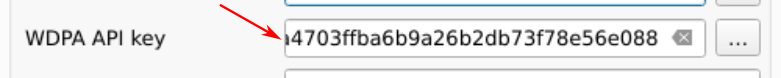
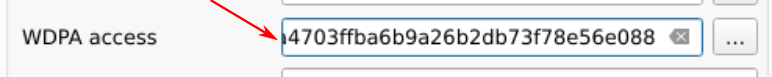
Updating documentation

diff --git a/help/docsrc/plugin_api.rst b/help/docsrc/plugin_api.rst
@@ -27,9 +27,9 @@ This box is for collecting the information needed to download the data and compu
 
 - ``Working directory``: Path to the working directory where all the data and model outputs will be stored.
 
-- ``Area Of Interest``: Country ISO 3166-1 alpha-3 code (eg. MTQ) or path to GPKG vector file in lat/lon delimiting the area of interest (jurisdiction) and the sub-jurisdictions. The GPKG vector file must include two layers, the first one must be named “aoi” for the jurisdiction and the second one must be named “subj” for subjurisdictions. This GPKG vector file can be manually obtained using Qgis tools and data from the Global Administrative Areas (`GADM <https://gadm.org/download_country.html>`_) website. An example is given in the following article on using `subnational jurisdictions <articles/subnational_jurisd.html>`_.
+- ``Area Of Interest``: Country ISO 3166-1 alpha-3 code (e.g. MTQ) or path to GPKG vector file in lat/lon delimiting the area of interest (jurisdiction) and the sub-jurisdictions. The GPKG vector file must include two layers, the first one must be named “aoi” for the jurisdiction and the second one must be named “subj” for subjurisdictions. This GPKG vector file can be manually obtained using Qgis tools and data from the Global Administrative Areas (`GADM <https://gadm.org/download_country.html>`_) website. An example is given in the following article on using `subnational jurisdictions <articles/subnational_jurisd.html>`_.
 
-- ``Years``: Years delimiting the two periods (calibration and validation periods) for forest cover change observations. Three years must be provided. Years can be in the interval 2001--2024 for GFC (GFC does not provide loss for the year 2000) and 2000--2023 for TMF.
+- ``Years``: Years delimiting the two periods (calibration and validation periods) for forest cover change observations. Three years must be provided. Years can be in the interval 2001--2024 for GFC (GFC does not provide tree cover loss for the year 2000) and 2000--2023 for TMF.
 
 - ``Forest data source``: Source of the forest data. Could be either “tmf” or “gfc”.
 
@@ -37,30 +37,107 @@ This box is for collecting the information needed to download the data and compu
 
 - ``Tile size (dd)``: Tile size (in decimal degrees) used to download forest cover change. A value of 1 degree is recommended.
 
-- ``Country/state ISO code``: Country or state ISO code used to download GADM, OSM, SRTM, and WDPA data. The iso code should correspond to the country to which the aoi provided in ``Area Of Interest`` belongs. For Brazilian states, use the code of the state in the form “BRA-XX” (e.g. “BRA-AM” for the Amazonas state). A list of codes that can be used with the ``deforisk`` plugin can be found in this `.csv <https://github.com/ghislainv/forestatrisk/blob/master/forestatrisk/csv/ctry_run.csv>`_ file (see column iso3).
+- ``Country/state ISO code``: Country or state ISO code used to download GADM, OSM, SRTM, and WDPA data. The iso code should correspond to the country to which the aoi provided in ``Area Of Interest`` belongs. For Brazilian states, use the code of the state in the form “BRA-XX” (e.g. “BRA-AM” for the Amazonas state). A list of codes that can be used with the ``deforisk`` plugin can be found in this `.tsv <https://github.com/ghislainv/forestatrisk/blob/master/forestatrisk/csv/ctry_run.tsv>`_ file (see column iso3).
 
 - ``Earth Engine access``: Name of a Google Cloud project registered to use Earth Engine (and for which you are identified as a user) or a path to a JSON private key file authorizing you to access Earth Engine through a service account.
 
-- ``WDPA access``: Personal API Token (a series of letters and numbers such as ``ca4703ffba6b9a26b2db73f78e56e088``) or a path to a text file specifying the value of the “WDPA\_KEY” environmental variable (eg. a simple text file including on one line ``WDPA_KEY="3e404871700e77c453c4e189d848f739"`` for example).
+- ``WDPA access``: Personal API Token (a series of letters and numbers such as ``ca4703ffba6b9a26b2db73f78e56e088``) or a path to a text file specifying the value of the “WDPA\_KEY” environmental variable (e.g. a simple text file including on one line ``WDPA_KEY="3e404871700e77c453c4e189d848f739"`` for example).
 
 - ``Projection EPSG code``: EPSG code of the coordinate reference system used for projecting maps.
 
-Pushing the ``Run`` button in this box will download the data and compute the variables in the background. When the operation is finished, a forest cover change map appears in the list of QGIS layers. New folders are created in the working directory:
+Pushing the ``Run`` button in this box will download the data and compute the variables in the background. When the operation is finished, a forest cover change map appears in the list of Qgis layers and a plot of the forest cover change ``fcc123.png`` is created in folder ``outputs/variables``. New folders are created in the working directory:
 
-- ``working_directory/iso_code``: Unique folder created for the study area.
+Six data folders are created:
 
-- ``working_directory/iso_code/data_raw``: Downloaded raw data for the study area.
+- ``data_raw``: raw data with intermediary files.
 
-- ``working_directory/iso_code/data``: Processed data that will be used for modelling.
+- ``data``: processed data used for models and plots.
 
-- ``working_directory/iso_code/outputs``: Outputs (figures and tables).
+The following four folders only include symlinks to avoid duplicating data:
 
-- ``working_directory/iso_code/qgis_layer_style``: Layer styles for QGIS.
+- ``data_calibration``: data used for model calibration on the calibration period (t1--t2).
+
+- ``data_validation``: data used to predict the deforestation risk at t2 and validate models on the validation period (t2--t3). This folder used for prediction does not include a ``fcc.tif`` file but only raster files of explanatory variables.
+
+- ``data_historical``: data used for model calibration on the historical period (t1--t3).
+
+- ``data_forecast``: data used to predict the deforestation risk at t3 and forecast deforestation beyond t3. This folder does not include any ``fcc.tif`` file either.
+
+Three other folders are created:
+
+- ``outputs``: Outputs (figures and tables).
+
+- ``outputs/variables``: Output for variables.
+
+- ``qgis_layer_style``: Layer styles for Qgis.
 
 Benchmark
 ---------
 
 .. image:: _static/interface_benchmark.png
+
+Fit model to data
+~~~~~~~~~~~~~~~~~
+
+This tab is for collecting the information needed to map the deforestation risk using the benchmark model from the `Verra JNR Unplanned Deforestation Allocation (UDef-A) tool <https://verra.org/methodologies/vt0007-unplanned-deforestation-allocation-udef-a-v1-0/>`_. In summary, the benchmark model assumes that deforestation is negligible beyond a given distance to forest edge, that the deforestation risk decreases with the distance to forest edge and that for a given distance to forest edge the risk varies between subjurisdictions.
+
+- ``Deforestation threshold (%)``: Accumulated deforestation threshold used to identify the distance to forest edge threshold. Default to 99.5% as suggested in the UDef-A methodology.
+
+- ``Max. distance to forest edge (m)``: Maximal distance to forest edge used to compute the accumulated deforestation as a function of the distance to forest edge. Default to 2500 m as most of the deforestation should occur below this distance. Increase this number if the 99.5% threshold for the accumulated deforestation is not reached.
+
+- ``calib. period``: If checked, the model is fitted for the calibration period (t1--t2).
+
+- ``hist. period``: If checked, the model is fitted for the historical period (t1--t3).
+
+Pushing the ``Run`` button in this box will estimate the distance to forest edge beyond which the deforestation risk is assumed negligible. This distance threshold is used to define a first class of deforestation risk. Then, 29 classes of deforestation risk are estimated from the distance to forest edge using a geometric series to identified bins. Classes with higher deforestation risks have narrower ranges of distance to forest edge. Finally, a deforestation rate is estimated for each of the 30 classes within each subjurisdiction based on the observed deforestation for the time period considered.
+
+The following folders are created: ``outputs/rmj_benchmark/calibration`` and ``outputs/rmj_benchmark/historical``. The following files are added to these folders:
+
+- ``tab_dist.csv``: Table with the cumulated deforestation as a function of the distance to forest edge.
+
+- ``perc_dist.png``: Plot of the cumulated deforestation as a function of the distance to forest edge showing the distance threshold.
+
+- ``dist_edge_threshold.csv``: Table with distance threshold and corresponding cumulated deforestation (which must be :math:`\geq` 99.5%).
+
+- ``dist_bins.csv``: Table with the bins used to convert distance to forest edge into 29 classes of deforestation risk using a geometric series.
+
+- ``subj.tif``: Raster of subjurisdictions with values going from 1 to potentially 999.
+
+- ``prob_bm_t1.tif``: Raster with classes of deforestation risk going from 1001 to potentially 30999.
+
+- ``prob_bm_t1.png``: Plot of the deforestation risk map.
+
+- ``defrate_cat_bm_<period>.csv``: Table with deforestation rates on the period for each class of deforestation risk (see details `below <plugin_api.html#defrate-table>`_).
+
+.. _defrate-table:
+
+Table ``defrate_cat_<model>_<period>.csv``
+^^^^^^^^^^^^^^^^^^^^^^^^^^^^^^^^^^^^^^^^^^
+
+Table ``defrate_cat_<model>_<period>.csv`` includes the following columns:
+
+- ``cat``: The class (or category) of deforestation risk (denoted :math:`i_{}`).
+
+- ``nfor``: The number of forest pixels at the beginning of the period (denoted :math:`n_{i}`).
+
+- ``ndefor``: The number of deforested pixels during the period considered (denoted :math:`d_{i}`).
+
+- ``time_interval``: Time interval for the period (denoted :math:`T`, in years). E.g. 10 yr for the period 2000--2010.
+
+- ``pixel_area``: Pixel area (denoted :math:`A`, in ha). E.g. 0.9 ha for 30 × 30 m pixels.
+
+- ``rate_obs``: Observed annual deforestation rate per class computed as :math:`\theta_{o,i} = 1 - (1 - d_{i} / n_{i})^{(1 / T)}`.
+
+- ``rate_mod``: Relative spatial deforestation probability from model computed as :math:`\theta_{m,i}=d_{i}/n_{i}`.
+
+- ``rate_abs``: Absolute deforestation probability with quantity adjustment (so that total predicted deforestation equals the observed deforestation on the period), computed from an adjustment factor :math:`\rho` as :math:`\theta_{a,i} = \rho \theta_{m,i}` with :math:`\rho = \sum_{i} d_{i} / \sum_i n_{i} \theta_{m,i}`. For the benchmark model for the calibration and historical period, :math:`\rho=1` and :math:`\theta_{a,i}=\theta_{m,i}`.
+
+- ``defor_dens``: Deforestation density (in ha/pixel/yr) computed as :math:`D_{i} = \theta_{a, i} \times A / T`. The deforestation density is used to predict the amount of deforestation for each pixel belonging to a given class of deforestation risk.
+
+Predict the deforestation risk
+~~~~~~~~~~~~~~~~~~~~~~~~~~~~~~
+
+To be done...
 
 FAR models
 ----------
@@ -78,20 +155,22 @@ This box is for collecting the information needed to sample the deforestation ob
 
 - ``Random seed``: Random seed used to make the random sample reproducible.
 
-- ``Spatial cell size (km)``: Size of the spatial cells used to estimate spatial random effects. These spatial random effects account for the residual regional variability in the deforestation risk which is not taken into account by the spatial explanatory variables (e.g. distance to forest edge) included in the model. Use a value so that you have (roughly) between 500 and 1000 spatial cells covering your area of interest.
+- ``Spatial cell size (km)``: Size of the spatial cells used to estimate spatial random effects. These spatial random effects account for the residual regional variability in the deforestation risk which is not taken into account by the spatial explanatory variables (e.g. distance to forest edge) included in the model. Because one parameter is estimated for each cell, use a value so that you have (roughly) between 500 and 1000 spatial cells covering your area of interest.
 
 - ``calib. period``: If checked, the observations are sampled for the calibration period (t1--t2).
 
 - ``hist. period``: If checked, the observations are sampled for the historical period (t1--t3).
 
-Pushing the ``Run`` button in this box will sample the observations. Note that you cannot sample the observations before downloading and computing the variables (see previous step). When the operation is finished, the sampled observations appear in the list of Qgis layers. You can navigate on the map to confirm that about half the observations have been sampled in the deforested area and half in the non-deforested area. Files ``sample.txt``, ``sample_size.csv``, and ``correlation.pdf`` are added to the ``outputs`` folder. 
+Pushing the ``Run`` button in this box will sample the observations. Note that you cannot sample the observations before downloading and computing the variables (see previous step). When the operation is finished, the sampled observations appear in the list of Qgis layers. You can navigate the map to confirm that about half the observations have been sampled in the deforested area and half in the non-deforested area.
+
+The folder ``outputs/far_models`` is created with ``calibration`` and ``historical`` subfolders if ``calib. period`` and ``hist. period`` have been checked respectively. Files ``sample.txt``, ``sample_size.csv``, ``csize_icar.txt``, and ``correlation.pdf`` are added to the output folders for each period. 
 
 Fit models to data
 ~~~~~~~~~~~~~~~~~~
 
 This tab is for collecting the information needed to spatially model deforestation using three statistical models available in the ``forestatrisk`` (FAR) Python package: iCAR, GLM, and Random Forest models.
 
-- ``List of variables``: List of explanatory variables used for statistical modelling. Variable names must correspond to file names (without “.tif” extension) in folder ``working_directory/iso_code/data``. Variable names must be separated by a comma.
+- ``List of variables``: List of explanatory variables used for statistical modelling. Variable names must correspond to file names (without “.tif” extension) in folder ``data_calibration`` or ``data_historical``. Variable names must be separated by a comma. For categorical variables (such as protected areas) use the variable name with notation ``C()``, such as ``C(pa)``.
 
 - ``Starting values for betas``: If -99 (recommended), starting values for betas correspond to estimates of a simple GLM with the same variables.
 
@@ -99,16 +178,98 @@ This tab is for collecting the information needed to spatially model deforestati
 
 - ``MCMC``: Length of the MCMC for the final model.
 
-- ``Variable selection``: If checked (recommended), a variable selection is performed before fitting the final model.
+- ``Variable selection``: If checked (recommended), a variable selection (backward selection) is performed before fitting the final model.
 
-Pushing the ``Run`` button in this tab will fit the statistical model to the deforestation observations. Note that you cannot fit the model if you have not sampled the observations (see previous step). Files ``summary_icar.txt``, ``mod_icar.pickle``, and ``mcmc.pdf`` are added to the ``outputs`` folder.
+- ``calib. period``: If checked, models are fitted for the calibration period (t1--t2).
+
+- ``hist. period``: If checked, models are fitted for the historical period (t1--t3).
+
+Pushing the ``Run`` button in this box will fit the statistical model to the deforestation observations. Note that you cannot fit the model if you have not sampled the observations (see previous step).
+
+The following folders are created: ``outputs/far_models/calibration`` and ``outputs/far_models/historical``. The following files are added to the ``outputs/far_models/calibration`` and ``outputs/far_models/historical`` folders:
+
+- ``summary_icar.txt``: Summary of the iCAR model with mean, standard-deviation, and credible intervals for model parameters.
+
+- ``mcmc.pdf``: Trace and posterior distribution for the icar model parameters. Used to check MCMC convergence.
+
+- ``mod_icar.pickle``: A compressed file with iCAR model characteristics. Used for projections.
+
+- ``mod_null.pickle``: A compressed file with null model characteristics. Only used as an archive.
+
+- ``mod_glm.pickle``: A compressed file with GLM model characteristics. Used for projections.
+
+- ``mod_rf.joblib``: A compressed file with Random Forest model characteristics. Used for projections.
+
+- ``model_deviances.csv``. A text file comparing the percent deviance explained between models. This percentage is an indication of the goodness-of-fit of the model.
+
+Predict the deforestation risk
+~~~~~~~~~~~~~~~~~~~~~~~~~~~~~~
+
+This step is for predicting the deforestation risk and deriving risk maps using the models fitted on the calibration or historical period.
+
+- ``iCAR model``: If checked, computes predictions with the iCAR model.
+
+- ``GLM``: If checked, computes predictions with GLM.
+
+- ``RF model``: If checked, computes predictions with the Random Forest model.
+
+- ``t1 calibration``: If checked, computes predictions at t1 using models fitted for the calibration period.
+
+- ``t2 validation``: If checked, computes predictions at t2 for validation (using models fitted for the calibration period).
+
+- ``t1 historical``: If checked, computes predictions at t1 using models fitted for the historical period.
+
+- ``t3 forecast``: If checked, computes predictions at t3 for forecasting (using models fitted for the historical period).
+
+Pushing the ``Run`` button in this box will use the statistical models for predictions. Note that you cannot make predictions if you have not fitted the models (see previous step). When the operation is finished, rasters representing the classes of deforestation risk appear in the list of Qgis layers. You can navigate the different maps to see how the risk of deforestation is changing in space for the different dates. For example, you can have a look at the effect of the distance to forest edge, of the distance to roads, or of protected areas.
+
+The following folders are created for each date and period: ``outputs/far-models/<date_and_period>``. The following files are created for each model, date and period:
+
+- ``prob_<far_model>_<date>.tif``: Raster with classes of deforestation risk going from 1 to 65535 (high deforestation risk).
+
+- ``prob_<far_model>_<date>.png``: Plot of the deforestation risk map.
+
+- ``defrate_cat_<model>_<period>.csv``: Table with deforestation rates on the period for each class of deforestation risk. See details `above <plugin_api.html#defrate-table>`_ with one exception for FAR models: column ``rate_mod`` is computed as :math:`\theta_{m, i} = ((i_{} - 1) \times 999999 / 65534 + 1) \times 1e^{-6}`. This formula leads to an almost null (:math:`1e^{-6}`) deforestation probability when :math:`i=1` and to a deforestation probability of 1 when :math:`i=65535`.
 
 MW models
 ---------
 
 .. image:: _static/interface_mw_models.png
 
+To be done...
+
 Validation
 ----------
 
 .. image:: _static/interface_validation.png
+
+Model validation
+~~~~~~~~~~~~~~~~
+
+This step is used to validate deforestation models and maps and estimate their performance at correctly predicting the location of the deforestation. By default, the performance of the benchmark model is always estimated.
+
+- ``Coarse grid cell size (# pixels)``: Spatial cell size in number of pixels used to compare observed deforested area with predicted deforested area. Cell size must be < 10 km. As an example, a value of 300 corresponds to 9 km for a 30 m resolution raster. Several values can be provided if separated with comma. Default to “50, 100”.
+
+- ``iCAR model``: If checked, estimates the performance of the iCAR model.
+
+- ``GLM``: If checked, estimates the performance of the GLM.
+
+- ``RF model``: If checked, estimates the performance of the Random Forest model.
+
+- ``MW model``: If checked, estimates the performance of the Moving Window models.
+
+- ``calib. period``: If checked, estimates model performances for the calibration period (t1--t2).
+
+- ``valid. period``: If checked, estimates model performances for the validation period (t2--t3).
+
+- ``hist. period``: If checked, estimates model performances for the historical period (t1--t3).
+
+Pushing the ``Run`` button in this box will compute the predicted deforested area in each grid cell for each model and each period selected and compare this value to the observed deforested area for the same grid cell and period. Note that you cannot validate models if you have not fitted these models (see previous step).
+
+The following folders are created for each period: ``outputs/model_validation/<period>/figures`` and ``outputs/model_validation/<period>/tables``. The following files are added for each model, period, and grid cell size:
+
+- ``tables/pred_obs_<model>_<period>_<cell_size>.csv``: Values of observed and predicted deforested area in each grid cell.
+
+- ``tables/indices_<model>_<period>_<cell_size>.csv``: Values of performance indices for a given model, period, and grid cell size. Performance indices include the R\ :sup:`2`\, the median absolute error (MedAE, in ha), the root mean square error (RMSE, in ha), and the weighted root mean square error (wRMSE, in ha), fo which the weights are determined by the number of forest pixels in each coarse grid cell.
+
+- ``figures/pred_obs_<model>_<period>_<cell_size>.png``: Plot of predicted vs. observed deforested area. The plot shows values of predicted and observed deforested area in each grid cell as points and the one-one line. The plot reports also the number of grid cells (or points), and the values of two of the performance indices: the R\ :sup:`2`\ and the MedAE.

diff --git a/help/docsrc/installation.rst b/help/docsrc/installation.rst
@@ -10,7 +10,7 @@ Installation
 
 .. note::
 
-    `Qgis <https://www.qgis.org/en/site/>`_ and `GDAL <https://gdal.org/index.html>`_ must be installed on your system before using the ``deforisk`` plugin. **On Unix-like systems only**, you must also install `osmconvert <https://wiki.openstreetmap.org/wiki/Osmconvert>`_ and `osmfilter <https://wiki.openstreetmap.org/wiki/Osmfilter>`_. On Windows systems, these dependencies are already included in the plugin as binary ``.exe`` files so you don’t need to install them. Then, the ``forestatrisk`` and ``riskmapjnr`` Python packages must be installed on your system. Follow the instructions below to install all these dependencies on your system.
+    **Dependencies**: `Qgis <https://www.qgis.org/en/site/>`_ and `GDAL <https://gdal.org/index.html>`_ must be installed on your system before using the ``deforisk`` plugin. *On Unix-like systems*, you must also install `osmconvert <https://wiki.openstreetmap.org/wiki/Osmconvert>`_ and `osmfilter <https://wiki.openstreetmap.org/wiki/Osmfilter>`_. *On Windows systems*, these dependencies are already included in the plugin as binary ``.exe`` files so you don’t need to install them. Then, the ``forestatrisk`` and ``riskmapjnr`` Python packages must be installed on your system. Follow the instructions below to install these dependencies.
 
 On Windows
 ----------
@@ -107,7 +107,7 @@ Access to WDPA
 
 To uses the Protected Planet API to access data on world protected areas, you must first have obtained a Personal API Token by filling in the `form <https://api.protectedplanet.net/request>`_ available at Protected Planet.
 
-In the ``deforisk`` plugin, for the ``WDPA access`` argument available in the “Get variables” tab, you must indicate either your Personal API Token (a series of letters and numbers such as ``ca4703ffba6b9a26b2db73f78e56e088``) or a path to a text file specifying the value of the “WDPA\_KEY” environmental variable (eg. a simple text file including on one line ``WDPA_KEY="3e404871700e77c453c4e189d848f739"`` for example).
+In the ``deforisk`` plugin, for the ``WDPA access`` argument available in the “Get variables” tab, you must indicate either your Personal API Token (a series of letters and numbers such as ``ca4703ffba6b9a26b2db73f78e56e088`` which is a fake token) or a path to a text file specifying the value of the “WDPA\_KEY” environmental variable (eg. a simple text file including on one line ``WDPA_KEY="ca4703ffba6b9a26b2db73f78e56e088"`` for example).
 
 .. image:: _static/wdpa_access.png
     :width: 500px

diff --git a/help/docsrc/index.rst b/help/docsrc/index.rst
@@ -43,7 +43,7 @@ Installing the ``deforisk`` plugin in Qgis
 
 .. note::
 
-    `Qgis <https://www.qgis.org/en/site/>`_ and `GDAL <https://gdal.org/index.html>`_ must be installed on your system before using the ``deforisk`` plugin. **On Unix-like systems only**, you must also install `osmconvert <https://wiki.openstreetmap.org/wiki/Osmconvert>`_ and `osmfilter <https://wiki.openstreetmap.org/wiki/Osmfilter>`_. On Windows systems, these dependencies are already included in the plugin as binary ``.exe`` files so you don’t need to install them. Then, the ``forestatrisk`` and ``riskmapjnr`` Python packages must be installed on your system. Follow the `installation instructions <installation.html>`_ to install all these dependencies on your system.
+    **Dependencies**: `Qgis <https://www.qgis.org/en/site/>`_ and `GDAL <https://gdal.org/index.html>`_ must be installed on your system before using the ``deforisk`` plugin. *On Unix-like systems*, you must also install `osmconvert <https://wiki.openstreetmap.org/wiki/Osmconvert>`_ and `osmfilter <https://wiki.openstreetmap.org/wiki/Osmfilter>`_. *On Windows systems*, these dependencies are already included in the plugin as binary ``.exe`` files so you don’t need to install them. Then, the ``forestatrisk`` and ``riskmapjnr`` Python packages must be installed on your system. Follow the `installation instructions <installation.html>`_ to install these dependencies.
 
 - Download the ``deforisk`` `zip file <https://github.com/ghislainv/deforisk-qgis-plugin/archive/refs/heads/main.zip>`_ from GitHub.
 
